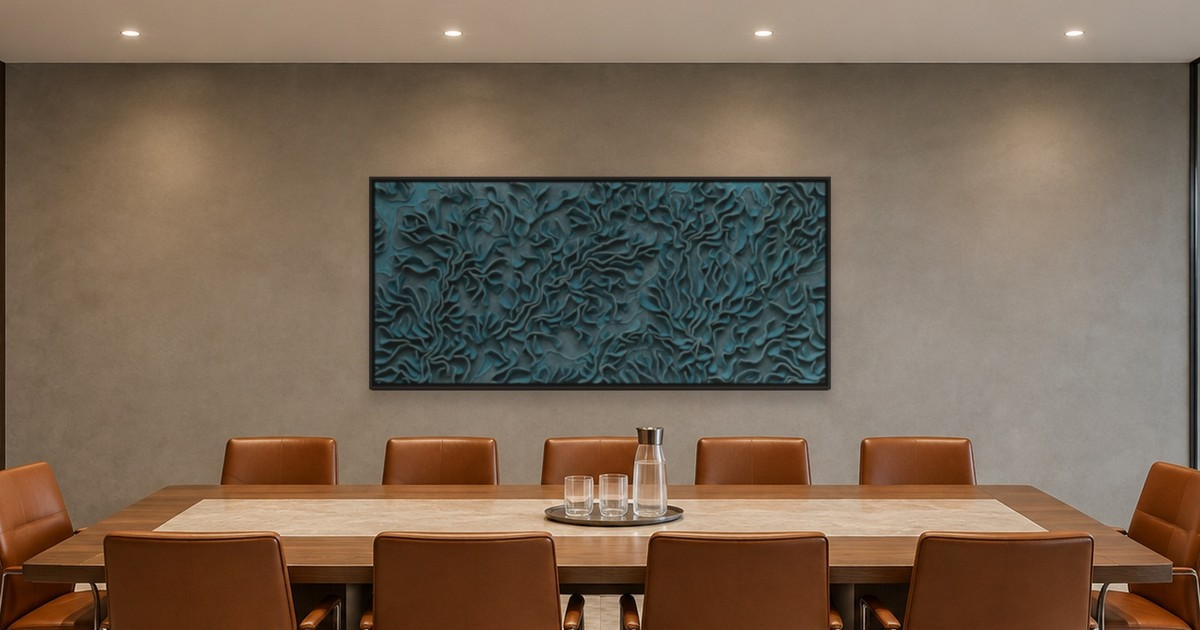
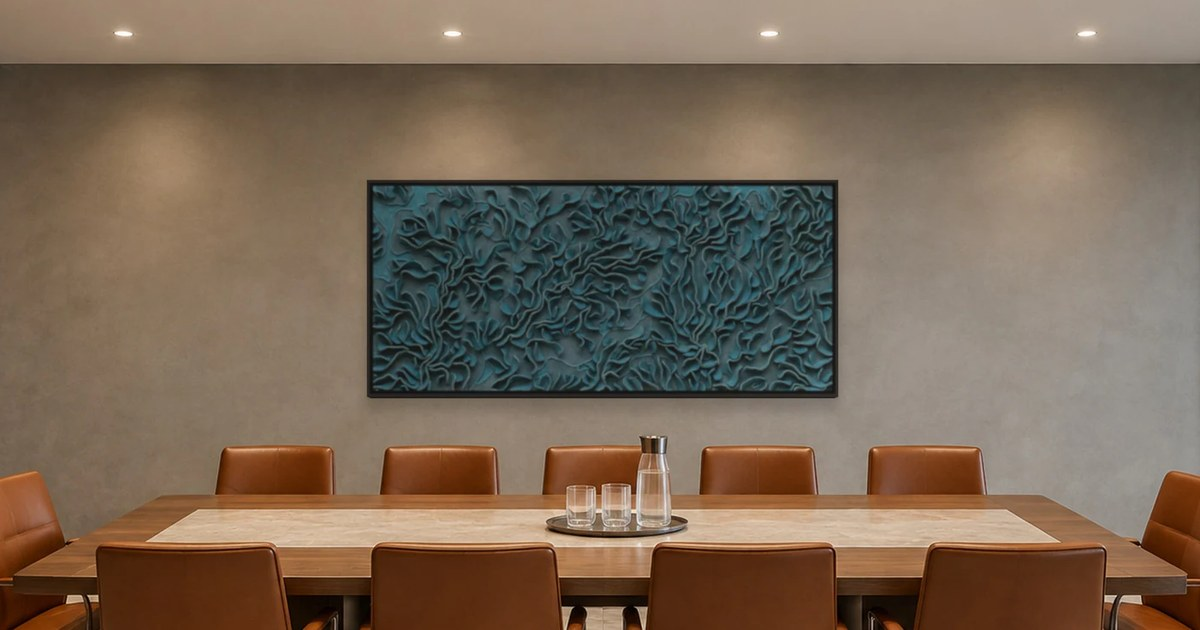
Law office guide: felt relief caption and cleaner share image
The hero caption now names the work the way its alt already does: "one wide felt relief" in English and "תבליט לבד רחב אחד" in Hebrew, in place of "abstract". The share image is cut again from the same hero, a little tighter, so both edges show plain wall instead of a thin sliver of the wood panel and the glass wall. Lanczos resize to 1200x630, JPEG q88. Nothing else on the page changed.

diff --git a/guide/law-office-art/index.html b/guide/law-office-art/index.html
@@ -429,7 +429,7 @@
           <span class="ba-chip"><span data-l="en" lang="en">After</span><span data-l="he" lang="he" dir="rtl">אחרי</span></span>
         </div>
       </div>
-      <figcaption><span class="ba-label"><span data-l="en" lang="en">Proposal · how THEODORA would dress this space</span><span data-l="he" lang="he" dir="rtl">הצעה · כך THEODORA הייתה מלבישה את החלל הזה</span></span> <span data-l="en" lang="en">A conference space, one wide abstract centered on the long wall above the chairs.</span><span data-l="he" lang="he" dir="rtl">חלל ישיבות, יצירה מופשטת רחבה אחת במרכז הקיר הארוך מעל הכיסאות.</span></figcaption>
+      <figcaption><span class="ba-label"><span data-l="en" lang="en">Proposal · how THEODORA would dress this space</span><span data-l="he" lang="he" dir="rtl">הצעה · כך THEODORA הייתה מלבישה את החלל הזה</span></span> <span data-l="en" lang="en">A conference space, one wide felt relief centered on the long wall above the chairs.</span><span data-l="he" lang="he" dir="rtl">חלל ישיבות, תבליט לבד רחב אחד במרכז הקיר הארוך מעל הכיסאות.</span></figcaption>
     </div>
   </figure>
 </header>

diff --git a/AGENTS.md b/AGENTS.md
@@ -153,6 +153,7 @@ Report failures honestly. If a check fails after the cache window, say so; do no
 
 ## 7. Work Log (append-only, newest first, one line per change)
 
+- 2026-11-26 (ET) | Claude (branch theo/law-guide-caption-og-2026-11-26) | Law office guide follow-up. content/spaces.json, key law-office-art_hero, captions only: cap_en "one wide abstract" is now "one wide felt relief" ("A conference space, one wide felt relief centered on the long wall above the chairs."); cap_he "יצירה מופשטת רחבה אחת" is now "תבליט לבד רחב אחד", matching the hero alts already live, which name the work a relief in deep teal felt. images/spaces/law-office-art_hero_og.jpg recut from images/spaces/law-office-art_hero_after.webp (1800x1200): crop x 196 to 1598, y 23 to 759 (1402x736), Lanczos to 1200x630, JPEG q88 progressive. The old cut showed a thin sliver of the walnut panel at the left edge and of the glass mullion at the right; the new one has plain wall at both edges, the relief centred, ceiling line and chair backs intact. Rebuilt with python3 build.py; no other content changed. | PR pending.
 - 2026-11-26 (ET) | Claude (branch loop/2026-11-26-images-2-art) | Law office guide pictures now carry real works from the approved art folder (site rule: the art in every site image comes from that folder, never a generator). images/guides/law-office-art/law-office-art_companion-d2 (reception): a wide pale blue work of light on water hung on the same generated waiting bay, 0.69 of the chair row, its bottom edge about 9.5 in above the chair backs at the brief's chair scale, centred on the row, fully covering the old frame (no repainting). images/spaces/law-office-art_hero_after: a wide relief in deep teal felt composited on the bare wall of the existing hero before, centred on the long wall above the far chairs, so the brush reveal paints only the work in; the before files are unchanged. images/spaces/law-office-art_hero_og.jpg cut again from the new after. Encoded cwebp -m 6 -sharp_yuv at q88 (1800 and 1000 px twins, standard XMP packet), never upscaled. content/spaces.json law-office-art_hero: fx, fy and art_x from the new frame, alt_en and alt_he name the new work, captions unchanged; content/pages/law-office-art.json: the d2 alt in body_en and body_he names the new work, the caption is unchanged, date_modified 2026-11-26. | Draft PR; ships through the gate.
 - 2026-11-26 (ET) | Claude (branch loop/2026-11-26-images-2) | content/pages/law-office-art.json: removed the companion photo of the pink poolside scene from the conference section, one `<figure>` in body_en and its twin in body_he, nothing put in its place; the section now runs from the Fig. 3 diagram straight to Partner and associate offices. No sentence, caption, FAQ, lead or dek referred to it, and figure numbers do not move (companions carry none). The files law-office-art_companion-d3.webp and law-office-art_companion-d3-1000.webp stay in images/guides/law-office-art/, unreferenced, so a revert is one line. Rebuilt with python3 build.py: the guide page and its image sitemap entry follow. The other companion photo, the hero pair and the link preview image are unchanged. | Draft PR
 - 2026-11-26 (ET) | Claude (branch loop/2026-11-26-images-1) | content/pages/dental-office-decor.json body_en and body_he, the Nothing to decode item: one sentence replaced, the Curator's strings verbatim. EN "Ambiguous or unsettling images belong in the staff areas, not in front of someone already uneasy." is now "Ambiguous or unsettling images ask too much of someone who is already uneasy."; HE "דימויים עמומים או מטרידים שייכים לאזורי הצוות, לא מול מי שכבר חש אי נוחות." is now "דימויים עמומים או מטרידים דורשים יותר מדי ממי שכבר חש אי נוחות.". The old line sent difficult work to staff walls, an idea content/BRIEF.md section 1a cut; the sentence was the Curator's 2026-09-30 copy, not a wording the site owner chose. The bold lead, the list item and the FAQ are unchanged; no image or alt text touched. Rebuilt with python3 build.py. | Draft PR.
